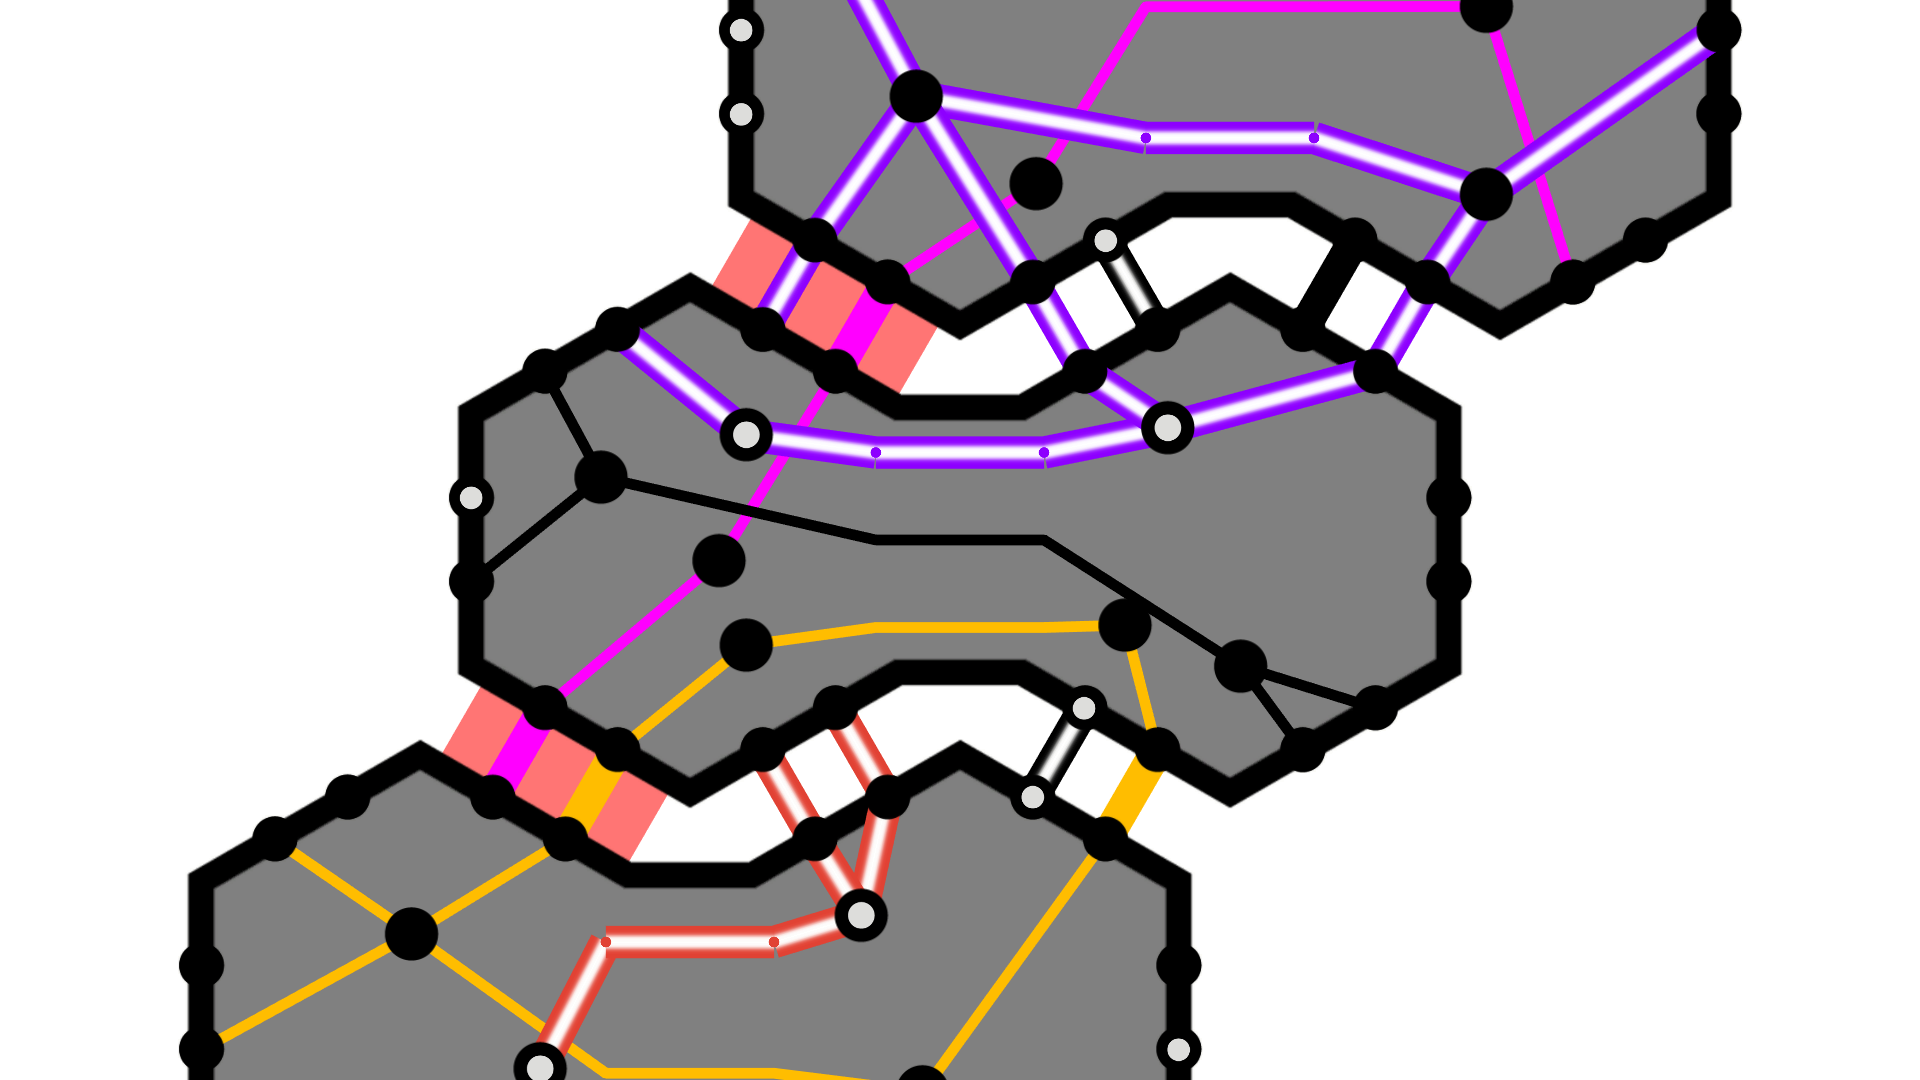
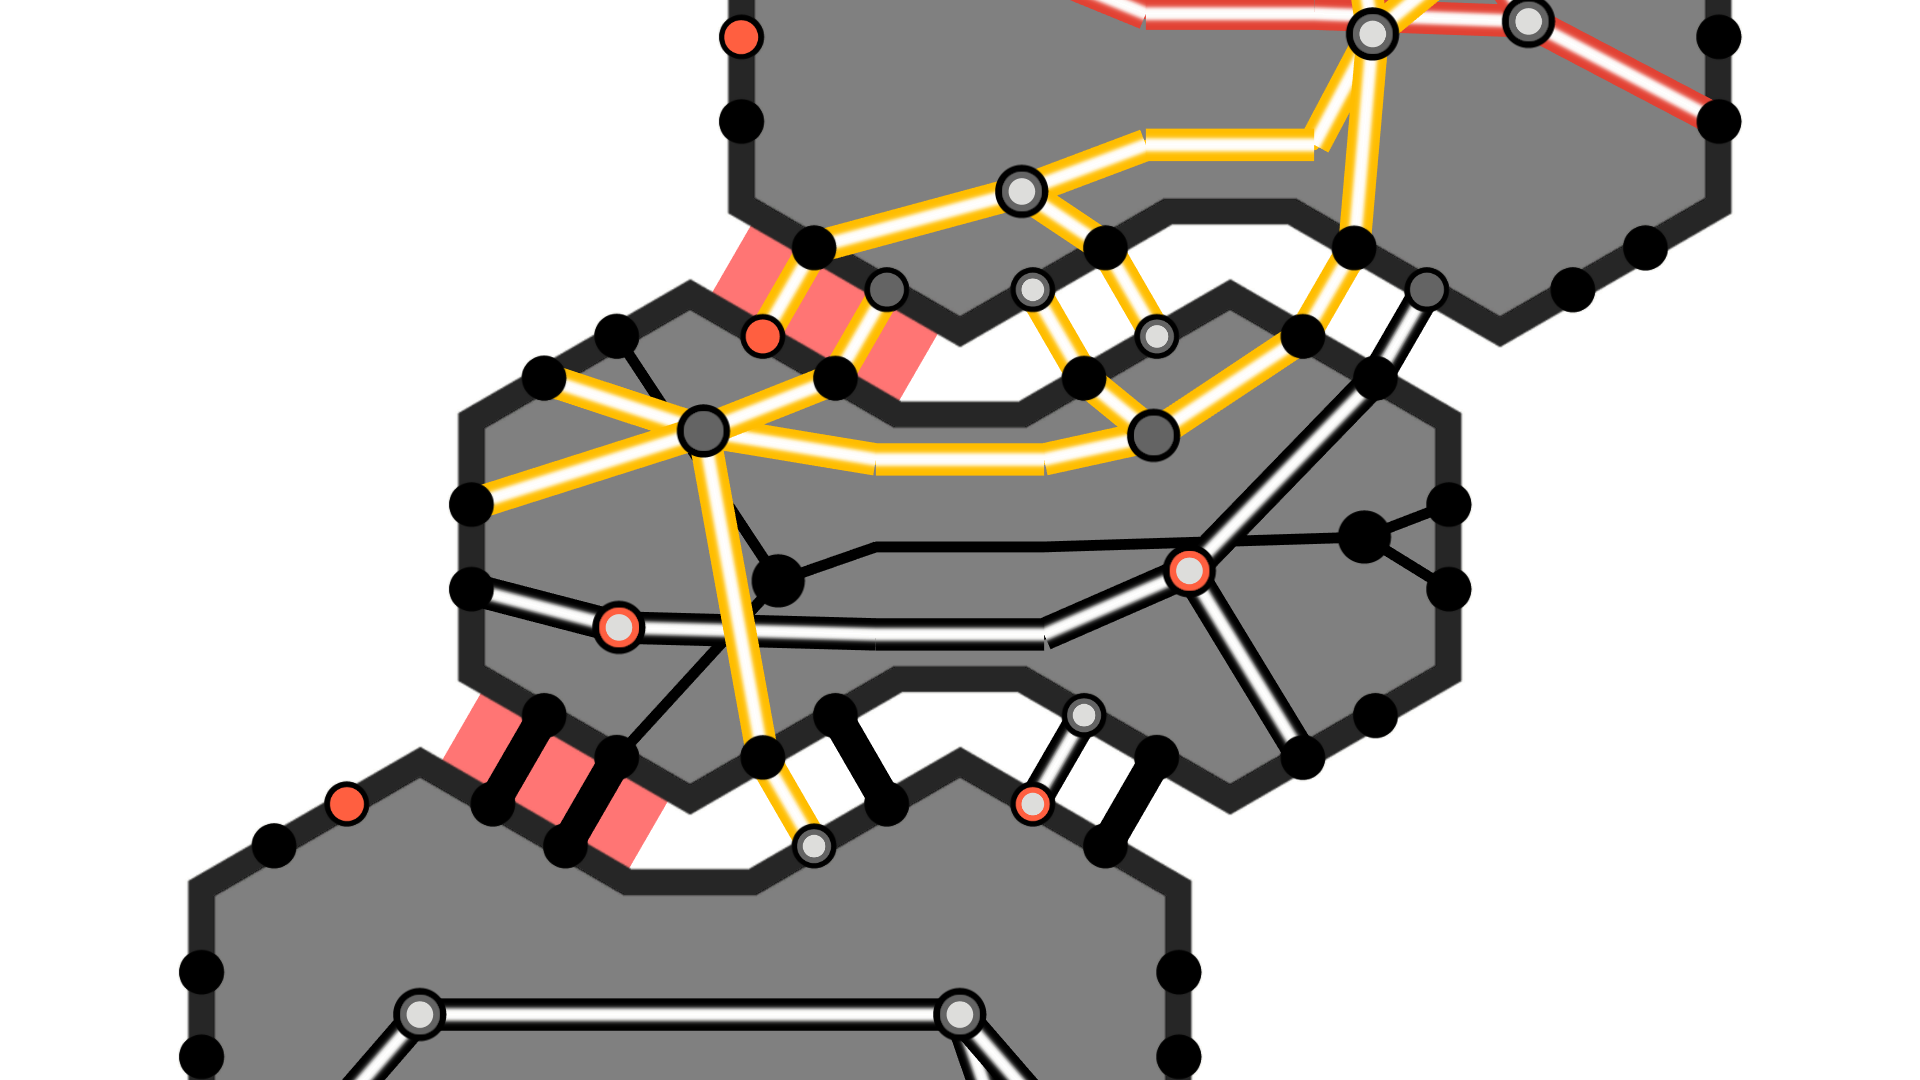
Updated Dev Guide page for circuit renderer and fixed circuit line connectors

Changed region(s): [[0.0938, 0.0, 0.9062, 1.0]]

diff --git a/AmoebotSim 2.0/Assets/Code/Graphics/Renderers/RendererCircuitPins_RenderBatch.cs b/AmoebotSim 2.0/Assets/Code/Graphics/Renderers/RendererCircuitPins_RenderBatch.cs
@@ -42,10 +42,11 @@ namespace AS2.Visuals
             public bool beeping;
             public bool beepOrigin;
             public bool faulty;
+            public bool connector;
             public Vector2 animationOffset;
 
-            public PropertyBlockData(Color color, bool delayed, bool singleton, bool beeping, bool beepOrigin, bool faulty) : this(color, delayed, singleton, beeping, beepOrigin, faulty, Vector2.zero) { }
-            public PropertyBlockData(Color color, bool delayed, bool singleton, bool beeping, bool beepOrigin, bool faulty, Vector2 animationOffset)
+            public PropertyBlockData(Color color, bool delayed, bool singleton, bool beeping, bool beepOrigin, bool faulty, bool connector) : this(color, delayed, singleton, beeping, beepOrigin, faulty, connector, Vector2.zero) { }
+            public PropertyBlockData(Color color, bool delayed, bool singleton, bool beeping, bool beepOrigin, bool faulty, bool connector, Vector2 animationOffset)
             {
                 this.color = color;
                 this.singleton = singleton;
@@ -53,6 +54,7 @@ namespace AS2.Visuals
                 this.beeping = beeping;
                 this.beepOrigin = beepOrigin;
                 this.faulty = faulty;
+                this.connector = connector;
                 this.animationOffset = animationOffset;
             }
         }
@@ -70,18 +72,32 @@ namespace AS2.Visuals
         public void Init()
         {
             // Set Material
-            // This material expects two colors to fill the center and the
-            // border of a circle. We can use this to make solid circles by
-            // setting both to the same color
-            pinMaterial = MaterialDatabase.material_circuit_pin_movement_border;
+            if (!properties.connector)
+            {
+                // This material expects two colors to fill the center and the
+                // border of a circle. We can use this to make solid circles by
+                // setting both to the same color
+                pinMaterial = MaterialDatabase.material_circuit_pin_movement_border;
+            }
+            else
+            {
+                pinMaterial = MaterialDatabase.material_circuit_pin_movement;
+                // Render the connector on the same level as the circuit lines
+                // TODO: Set correct zOffset
+                pinMaterial.renderQueue = RenderSystem.renderQueue_circuits;
+            }
 
             // PropertyBlocks
-            if (properties.beepOrigin)
+            if (properties.connector)
+            {
+                propertyBlock_circuitMatrices_PinConnectors.ApplyColor(properties.color);
+            }
+            else if (properties.beepOrigin)
             {
                 // Beep origin is always filled and singleton
                 propertyBlock_circuitMatrices_Pins.ApplyColor(ColorData.beepOrigin);
                 propertyBlock_circuitMatrices_Pins.ApplyColorSecondary(ColorData.beepOrigin);
-                propertyBlock_circuitMatrices_PinConnectors.ApplyColor(properties.color);
+
                 // Render the beep origin in front of the pin / partition set handle
                 zOffset = -0.1f;
                 pinMaterial.renderQueue = RenderSystem.renderQueue_pinBeeps;
@@ -97,7 +113,6 @@ namespace AS2.Visuals
                     zOffset = -0.05f;
                     pinMaterial.renderQueue = RenderSystem.renderQueue_pinFault;
                 }
-                propertyBlock_circuitMatrices_PinConnectors.ApplyColor(properties.color);
             }
             else if (properties.beeping)
             {
@@ -110,12 +125,10 @@ namespace AS2.Visuals
                     zOffset = -0.05f;
                     pinMaterial.renderQueue = RenderSystem.renderQueue_pinFault;
                 }
-                propertyBlock_circuitMatrices_PinConnectors.ApplyColor(properties.color);
             }
             else
             {
                 propertyBlock_circuitMatrices_Pins.ApplyColor(Color.black);
-                propertyBlock_circuitMatrices_PinConnectors.ApplyColor(properties.color);
             }
             propertyBlock_circuitMatrices_Pins.ApplyMovementOffset(properties.animationOffset);
             propertyBlock_circuitMatrices_PinConnectors.ApplyMovementOffset(properties.animationOffset);
@@ -242,7 +255,7 @@ namespace AS2.Visuals
         /// with the given properties.</returns>
         private Matrix4x4 CalculatePinConnectorMatrix(Vector2 pinPos)
         {
-            return Matrix4x4.TRS(new Vector3(pinPos.x, pinPos.y, RenderSystem.zLayer_pins), Quaternion.identity, new Vector3(RenderSystem.const_circuitPinConnectorSize, RenderSystem.const_circuitPinConnectorSize, 1f));
+            return Matrix4x4.TRS(new Vector3(pinPos.x, pinPos.y, RenderSystem.zLayer_circuits), Quaternion.identity, new Vector3(RenderSystem.const_circuitPinConnectorSize, RenderSystem.const_circuitPinConnectorSize, 1f));
         }
 
         /// <summary>

diff --git a/AmoebotSim 2.0/Assets/Code/Graphics/Renderers/RendererCircuits_Instance.cs b/AmoebotSim 2.0/Assets/Code/Graphics/Renderers/RendererCircuits_Instance.cs
@@ -1171,7 +1171,7 @@ namespace AS2.Visuals
         private void AddPin(Vector2 pinPos, Color color, bool delayed, bool beeping, bool beepOrigin, bool faulty, Vector2 movementOffset, GDRef gdRef, GDRef gdRef_beep_origin, GDRef gdRef_beep_fault)
         {
             // Base pin
-            RendererCircuitPins_RenderBatch batch = GetBatch_Pin(color, delayed, false, beeping, false, faulty, movementOffset);
+            RendererCircuitPins_RenderBatch batch = GetBatch_Pin(color, delayed, false, beeping, false, faulty, false, movementOffset);
             RenderBatchIndex index = batch.AddPin(pinPos, false);
             if(gdRef.valid)
             {
@@ -1181,7 +1181,7 @@ namespace AS2.Visuals
             // Beep origin
             if (beepOrigin)
             {
-                batch = GetBatch_Pin(color, delayed, false, false, true, false, movementOffset);
+                batch = GetBatch_Pin(color, delayed, false, false, true, false, false, movementOffset);
                 index = batch.AddPin(pinPos, false);
                 if (gdRef_beep_origin.valid)
                 {
@@ -1205,7 +1205,7 @@ namespace AS2.Visuals
         private void AddSingletonBeepOrigin(Vector2 pinPos, Color color, bool delayed, Vector2 movementOffset)
         {
             // Beep
-            RendererCircuitPins_RenderBatch batch = GetBatch_Pin(color, delayed, true, false, true, false, movementOffset);
+            RendererCircuitPins_RenderBatch batch = GetBatch_Pin(color, delayed, true, false, true, false, false, movementOffset);
             batch.AddPin(pinPos, true);
         }
 
@@ -1221,7 +1221,7 @@ namespace AS2.Visuals
         /// the pin's end position after its movement to its start position.</param>
         private void AddSingletonBeep(Vector2 pinPos, Color color, bool delayed, Vector2 movementOffset)
         {
-            RendererCircuitPins_RenderBatch batch = GetBatch_Pin(color, delayed, true, true, false, false, movementOffset);
+            RendererCircuitPins_RenderBatch batch = GetBatch_Pin(color, delayed, true, true, false, false, false, movementOffset);
             batch.AddPin(pinPos, true);
         }
 
@@ -1237,7 +1237,7 @@ namespace AS2.Visuals
         /// the pin's end position after its movement to its start position.</param>
         private void AddSingletonFault(Vector2 pinPos, Color color, bool delayed, Vector2 movementOffset)
         {
-            RendererCircuitPins_RenderBatch batch = GetBatch_Pin(color, delayed, true, false, false, true, movementOffset);
+            RendererCircuitPins_RenderBatch batch = GetBatch_Pin(color, delayed, true, false, false, true, false, movementOffset);
             batch.AddPin(pinPos, true);
         }
 
@@ -1256,7 +1256,7 @@ namespace AS2.Visuals
         /// <param name="gdRef">Graphical data belonging to the partition set.</param>
         private void AddConnectorPin(Vector2 pinPos, Color color, bool delayed, Vector2 movementOffset, GDRef gdRef)
         {
-            RendererCircuitPins_RenderBatch batch = GetBatch_Pin(color, delayed, false, false, false, false, movementOffset);
+            RendererCircuitPins_RenderBatch batch = GetBatch_Pin(color, delayed, false, false, false, false, true, movementOffset);
             RenderBatchIndex index = batch.AddConnectorPin(pinPos);
             if(gdRef.valid)
             {
@@ -1418,14 +1418,15 @@ namespace AS2.Visuals
         /// <param name="beeping">Whether the pin should beep.</param>
         /// <param name="beepOrigin">Whether this is just a beep origin
         /// highlight.</param>
+        /// <param name="connector">Whether this is a circuit line connector.</param>
         /// <param name="faulty">Whether the pin is faulty. Must not be true at
         /// the same time as <paramref name="beeping"/>.</param>
         /// <param name="movementOffset">The offset for the joint movement. Set to
         /// <c>Vector2.zero</c> if no joint movement is present.</param>
         /// <returns>A render batch that renders all pins with the given properties.</returns>
-        private RendererCircuitPins_RenderBatch GetBatch_Pin(Color color, bool delayed, bool singleton, bool beeping, bool beepOrigin, bool faulty, Vector2 movementOffset)
+        private RendererCircuitPins_RenderBatch GetBatch_Pin(Color color, bool delayed, bool singleton, bool beeping, bool beepOrigin, bool faulty, bool connector, Vector2 movementOffset)
         {
-            return GetBatch_Pin(new RendererCircuitPins_RenderBatch.PropertyBlockData(color, delayed, singleton, beeping, beepOrigin, faulty, movementOffset));
+            return GetBatch_Pin(new RendererCircuitPins_RenderBatch.PropertyBlockData(color, delayed, singleton, beeping, beepOrigin, faulty, connector, movementOffset));
         }
 
         /// <summary>

diff --git a/Documentation/dev_guide/render/particles/circuits.md b/Documentation/dev_guide/render/particles/circuits.md
@@ -1,10 +1,10 @@
 # Dev Guide: Circuit and Bonds Renderer
 
-The [`RendererParticles`][1] class manages a [`RendererCircuitsAndBonds`][2] instance to handle the rendering of all elements that are added to the basic particle bodies, namely *bonds*, *circuit lines* and *partition set handles*, including the beep highlights.
+The [`RendererParticles`][1] class manages a [`RendererCircuitsAndBonds`][2] instance to handle the rendering of all elements that are added to the basic particle bodies, namely *bonds*, *circuit lines* and *partition set handles*, including the beep origin, receiving and failure highlights.
 The circuit lines also include little circles placed where the bends of the lines are to cover up the gaps between the rectangles.
 
 <img src="~/images/circuit_renderer_all.png" alt="Circuit Renderer example" title="Circuit Renderer example" width="600"/>  
-<img src="~/images/circuit_renderer_bonds_cropped.png" alt="Bonds" title="Bonds" width="200"/> <img src="~/images/circuit_renderer_lines_cropped.png" alt="Circuit lines" title="Circuit lines" width="200"/> <img src="~/images/circuit_renderer_circles_cropped.png" alt="Beep highlights and partition set handles" title="Beep highlights and partition set handles" width="200"/>
+<img src="~/images/circuit_renderer_bonds.png" alt="Bonds" title="Bonds" width="200"/> <img src="~/images/circuit_renderer_lines.png" alt="Circuit lines" title="Circuit lines" width="200"/> <img src="~/images/circuit_renderer_circles.png" alt="Beep highlights and partition set handles" title="Beep highlights and partition set handles" width="200"/>
 
 As mentioned before, the structure of the circuit and bond rendering sub-tree is a bit more complex than the base particle rendering system.
 In particular, there is one extra management level and there are two instances of a manager class that take turns with rendering rounds.
